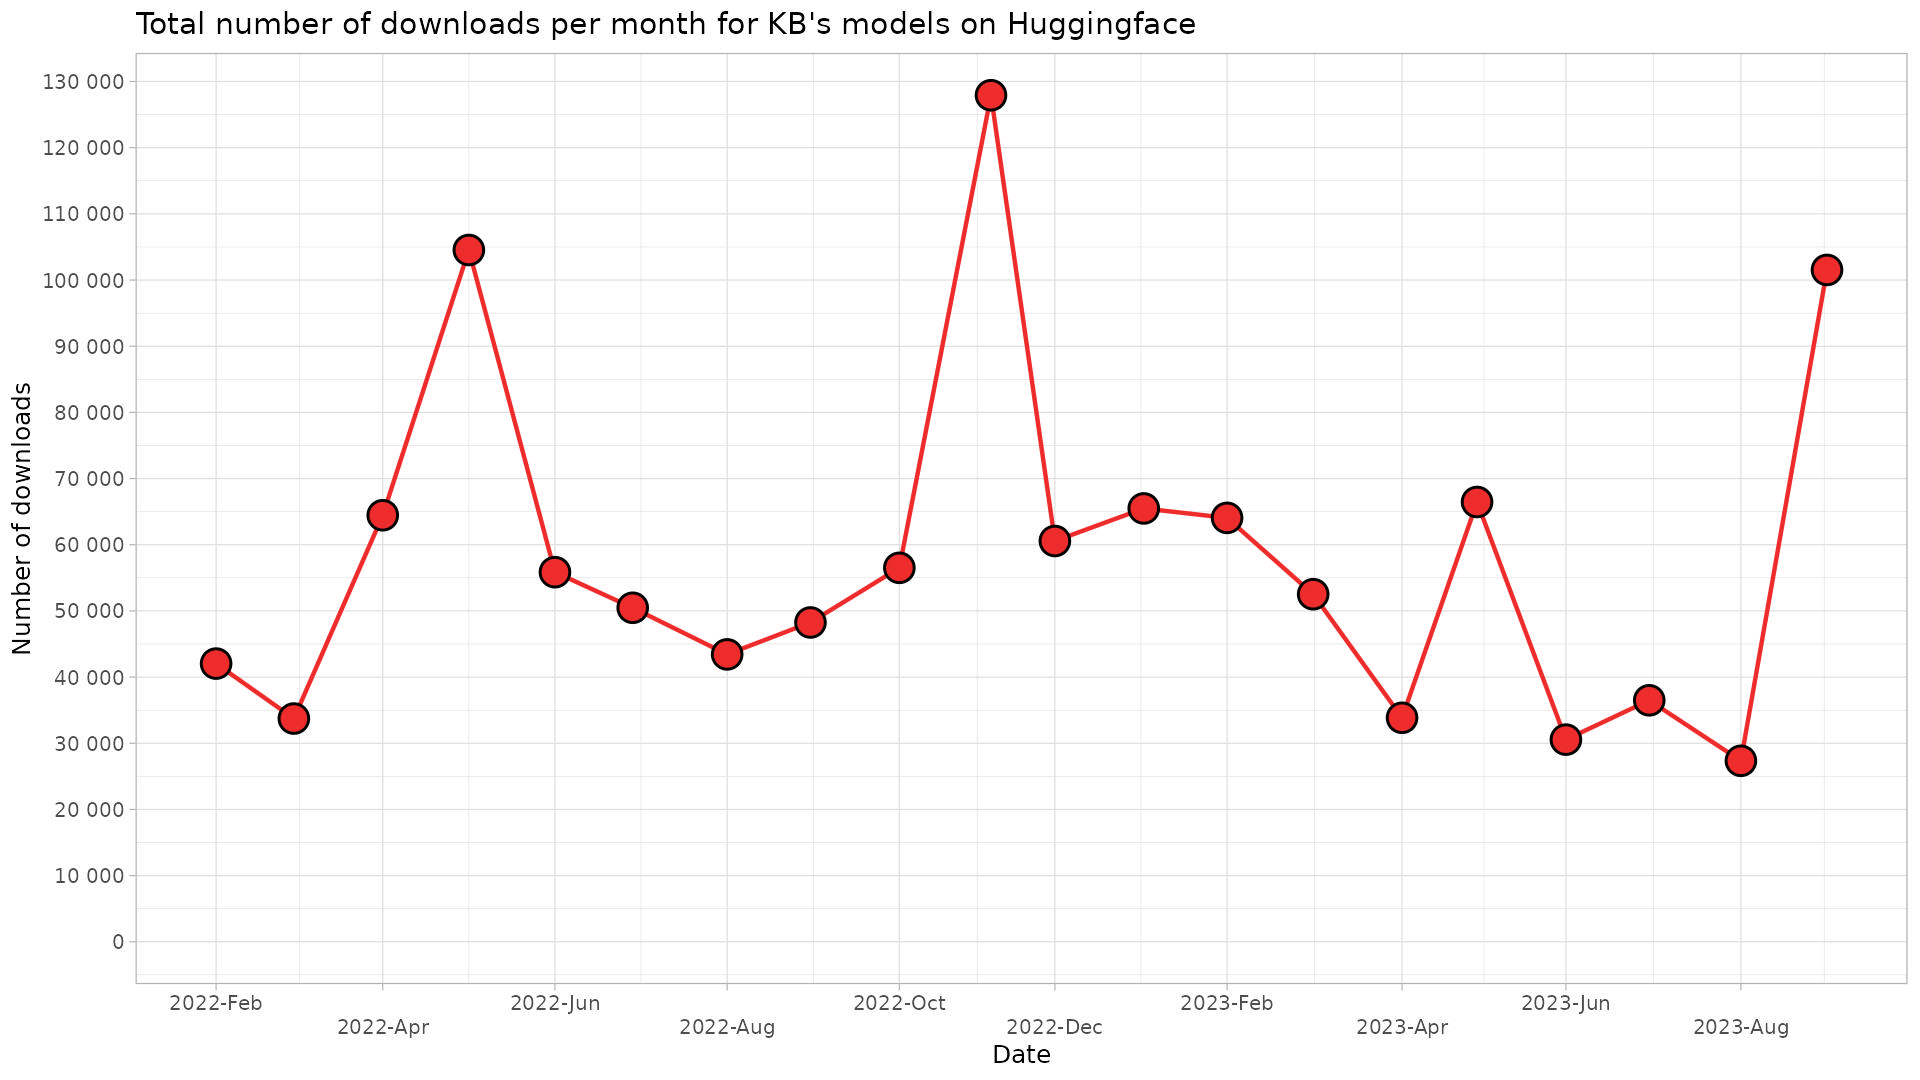
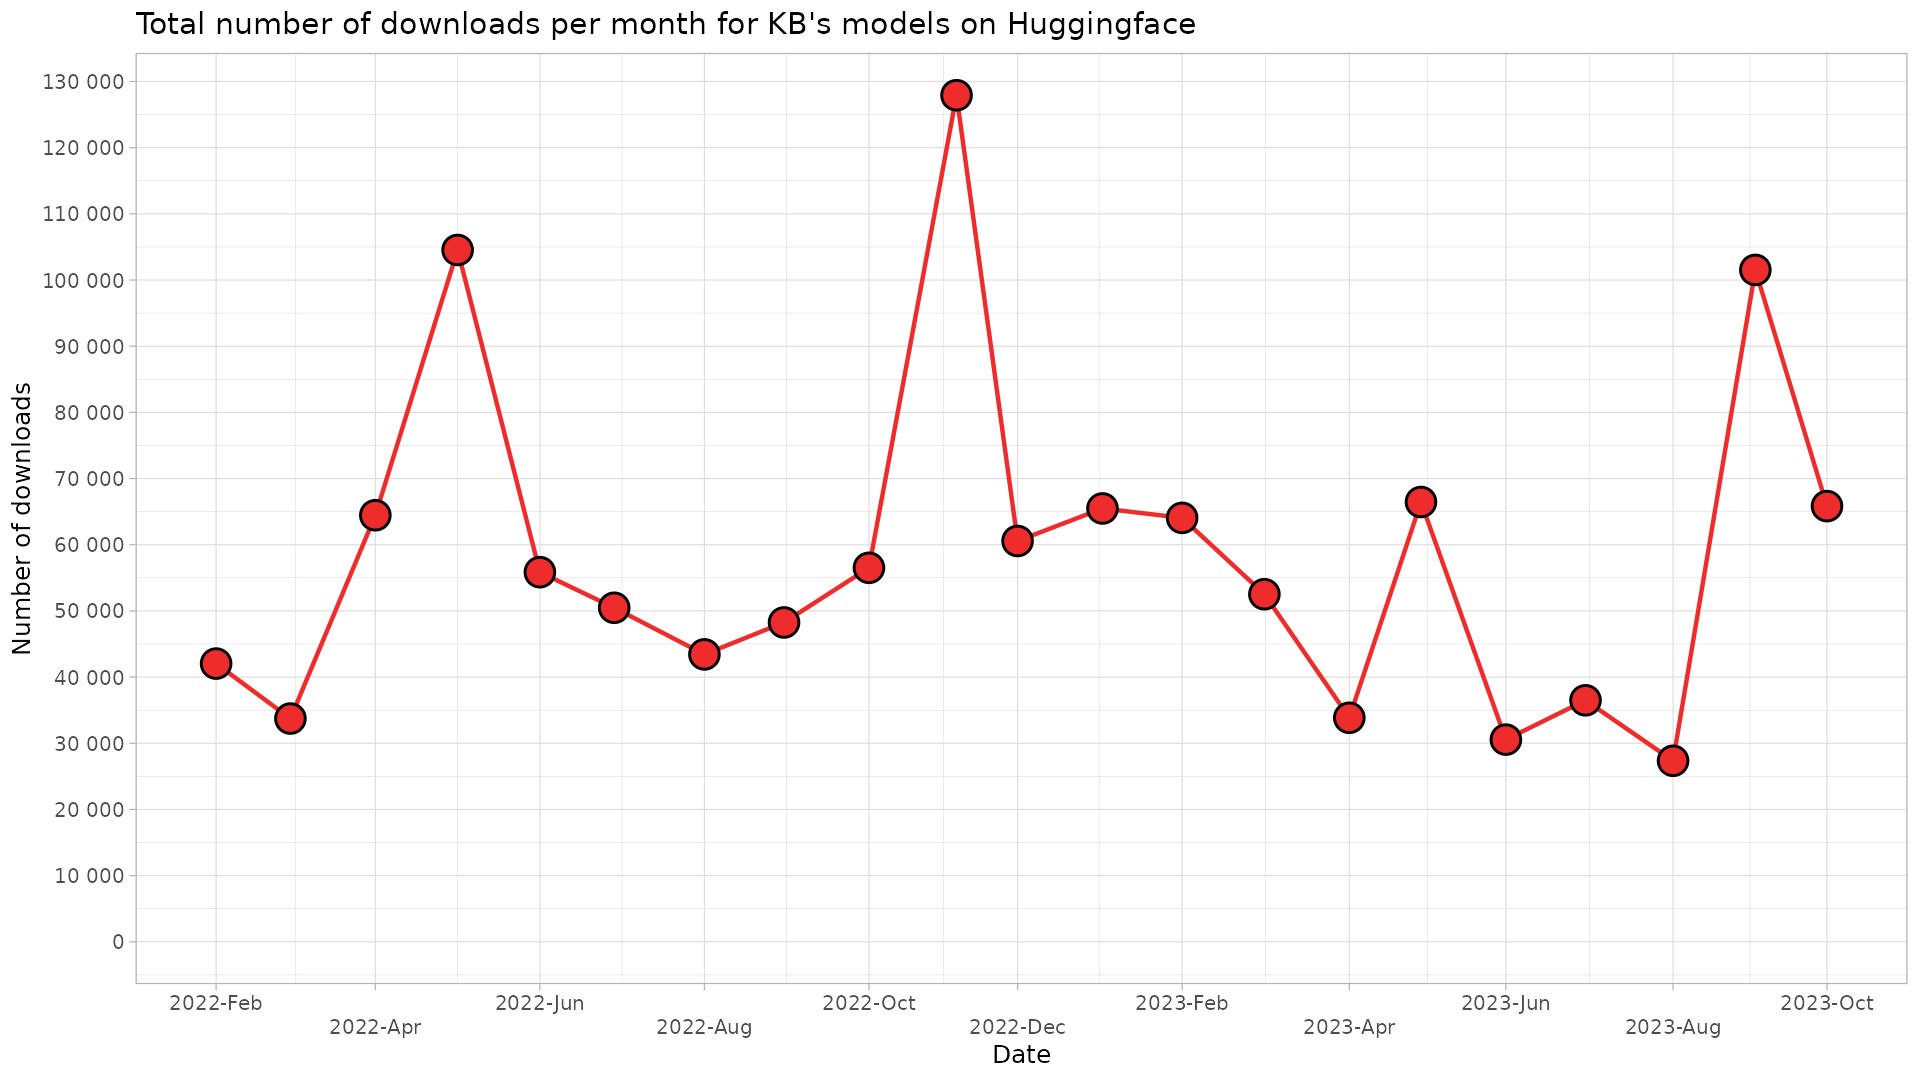
October 2023 update

diff --git a/README.md b/README.md
@@ -12,40 +12,40 @@ Script is run monthly, and a monthly `csv`-file outputted to `/data` folder.
 
 ## Table of downloads
 
-|model_name                                      | 2022-02| 2022-03| 2022-04| 2022-05| 2022-06| 2022-07| 2022-08| 2022-09| 2022-10| 2022-11| 2022-12| 2023-01| 2023-02| 2023-03| 2023-04| 2023-05| 2023-06| 2023-07| 2023-08| 2023-09|
-|:-----------------------------------------------|-------:|-------:|-------:|-------:|-------:|-------:|-------:|-------:|-------:|-------:|-------:|-------:|-------:|-------:|-------:|-------:|-------:|-------:|-------:|-------:|
-|albert-base-swedish-cased-alpha                 |     126|     252|      61|      52|      52|      28|      31|      17|      30|      64|     229|      37|      32|      75|      13|      17|      24|      39|      14|      18|
-|asr-voxrex-bart-base                            |      11|      10|      19|       5|       2|       1|       1|       3|       2|       3|       2|       4|       9|      15|       7|       2|       4|       7|       4|       3|
-|bart-base-swedish-cased                         |      74|      12|     116|     126|      32|      18|      41|      56|      81|       6|       9|      18|      41|      70|     110|      60|      50|      40|      23|       9|
-|bert-base-swedish-cased                         |   16509|   25080|   49286|   82528|   38802|   29511|   17012|   25106|   36702|   92636|   44016|   28164|   47819|   28864|   17684|   28878|   16390|   24502|   16303|   54271|
-|bert-base-swedish-cased-alpha                   |      22|      24|    1362|      34|       8|      73|       7|      14|      14|      14|      10|     160|     151|       6|       9|       5|       6|       9|       2|      12|
-|bert-base-swedish-cased-ner                     |   19891|    3353|    4783|    4221|   12487|   17406|   24290|   20200|   14852|   11251|   10014|    9759|    9957|   14508|    9834|   12293|    9868|    9701|    8258|    8767|
-|bert-base-swedish-cased-neriob                  |       8|      87|      34|      25|       4|      44|       2|       1|      62|      10|       5|      31|       5|       8|       6|       6|       9|      18|       2|       1|
-|bert-base-swedish-cased-new                     |      NA|       0|     377|    1069|     786|      10|     238|      69|     225|     168|     163|      46|      44|     352|     303|      33|      52|      69|      73|     211|
-|bert-base-swedish-cased-pos                     |     428|     179|     107|     104|     168|     310|       2|       2|     467|    7959|    2083|   21410|    1713|     300|      15|      28|      58|      64|       9|      75|
-|bert-base-swedish-cased-reallysimple-ner        |       6|      32|       9|       7|      11|      10|       3|       8|      10|      17|       4|      16|     159|     401|     211|     334|     327|     326|      74|     152|
-|bert-base-swedish-cased-squad-experimental      |     323|     136|      45|      23|      40|     182|      25|      27|     101|      10|      22|      62|      56|     643|     130|   16262|      29|      29|       4|      16|
-|bert-base-swedish-lowermix-reallysimple-ner     |       6|     453|     248|     312|     901|     991|     930|     871|    2274|    3958|    1963|    3010|    2567|    2485|    3919|    6258|    2875|     121|      53|     417|
-|electra-base-swedish-cased-discriminator        |     317|     143|     149|    1404|       2|       3|       3|       3|       2|       5|       0|       7|       2|       0|       6|       7|       4|       8|       0|       1|
-|electra-base-swedish-cased-generator            |       9|      15|      26|      31|       2|      19|       1|      18|       1|       9|       4|      10|       4|      14|      88|      78|     107|      72|       3|      15|
-|electra-small-swedish-cased-discriminator       |      12|       5|    1467|    3804|      10|       5|       2|       2|       2|      10|       8|      12|     153|       1|       9|       2|       6|       4|      18|       6|
-|electra-small-swedish-cased-generator           |      NA|       3|     138|      14|       4|      19|       2|       3|       4|       8|       6|      11|       4|       3|       6|      14|       4|       9|       0|       1|
-|emotional-classification                        |      NA|      NA|      NA|      NA|      NA|      NA|      NA|      NA|      NA|      NA|      NA|      NA|      NA|      NA|      NA|      NA|      NA|     155|       3|       1|
-|megatron-bert-base-swedish-cased-125k           |      NA|       0|     353|       0|       2|       8|       1|       3|     131|      55|     158|      27|      21|      19|       7|       6|      10|      10|       4|       2|
-|megatron-bert-base-swedish-cased-600k           |      NA|      10|     288|      87|      30|      16|      16|      17|     111|      12|      20|     194|      27|      49|      13|      15|     100|      22|       2|       2|
-|megatron-bert-large-swedish-cased-110k          |      NA|       0|     346|      77|       4|       4|       0|       1|       1|     171|     160|      15|       8|      23|       4|       2|       4|       3|       0|   33671|
-|megatron-bert-large-swedish-cased-165-zero-shot |      NA|      NA|      NA|      NA|      NA|      NA|      NA|      NA|      NA|      NA|       5|      55|      26|      63|      20|     621|      69|     135|      58|     170|
-|megatron-bert-large-swedish-cased-165k          |      NA|      NA|       9|      13|      40|      19|      53|       2|      18|     336|     327|      21|      34|      67|      43|      56|      36|      52|      13|      86|
-|piper-tts-nst-swedish                           |      NA|      NA|      NA|      NA|      NA|      NA|      NA|      NA|      NA|      NA|      NA|      NA|      NA|      NA|      NA|       1|       8|       3|       0|       0|
-|roberta-base-swedish-cased                      |       7|       7|     471|       8|      78|       5|      67|       2|       0|       5|       5|      37|     150|       3|       6|     204|      10|       9|       1|       2|
-|robust-swedish-sentiment-multiclass             |      NA|      NA|      NA|      NA|      NA|      NA|      NA|      NA|      NA|      NA|      NA|      NA|      NA|      NA|      NA|      NA|      12|     296|       8|      58|
-|sentence-bert-swedish-cased                     |    2033|    1988|    2079|    8110|     721|    1299|     304|    1157|     597|    1008|     887|    1441|     546|    3499|     955|     970|     327|     328|    2135|    2841|
-|swedish-spacy-pipeline                          |      65|      22|       5|       2|       5|       9|       1|       2|       0|       1|       3|       4|       6|      90|       3|       1|       0|       1|       3|       9|
-|wav2vec2-base-voxpopuli-sv-swedish              |      NA|      21|      19|       7|       1|      NA|       1|       5|      99|       6|       2|      13|      57|      12|      56|       4|      26|       9|       0|       1|
-|wav2vec2-large-voxpopuli-sv-swedish             |      58|      32|      73|      57|      24|       5|       5|      11|      59|      15|       7|      23|       9|      10|      13|      10|       7|      14|       4|       1|
-|wav2vec2-large-voxrex                           |     780|     609|     996|      57|     102|      55|      13|      34|      74|       4|       0|      56|      17|      11|       8|      17|       4|      15|       2|       1|
-|wav2vec2-large-voxrex-swedish                   |    1356|    1151|    1534|    2331|    1277|     334|     361|     611|     531|   10157|     146|     770|     411|     732|     290|     225|      65|     330|     217|     624|
-|wav2vec2-large-xlsr-53-swedish                  |      NA|     112|      55|      32|     259|      91|      19|       9|      61|      26|     307|      71|      32|      76|      26|      31|      45|      65|      50|      77|
-|whisper-large-rixvox                            |      NA|      NA|      NA|      NA|      NA|      NA|      NA|      NA|      NA|      NA|      NA|      NA|      NA|     113|      56|       8|       9|      12|       9|       6|
-|whisper-small-rixvox                            |      NA|      NA|      NA|      NA|      NA|      NA|      NA|      NA|      NA|      NA|      NA|      NA|      NA|       3|       1|       6|       2|       7|       0|       0|
-|whisper-tiny-rixvox                             |      NA|      NA|      NA|      NA|      NA|      NA|      NA|      NA|      NA|      NA|      NA|      NA|      NA|       9|       1|       5|       4|       7|       3|       0|
+|model_name                                      | 2022-02| 2022-03| 2022-04| 2022-05| 2022-06| 2022-07| 2022-08| 2022-09| 2022-10| 2022-11| 2022-12| 2023-01| 2023-02| 2023-03| 2023-04| 2023-05| 2023-06| 2023-07| 2023-08| 2023-09| 2023-10|
+|:-----------------------------------------------|-------:|-------:|-------:|-------:|-------:|-------:|-------:|-------:|-------:|-------:|-------:|-------:|-------:|-------:|-------:|-------:|-------:|-------:|-------:|-------:|-------:|
+|albert-base-swedish-cased-alpha                 |     126|     252|      61|      52|      52|      28|      31|      17|      30|      64|     229|      37|      32|      75|      13|      17|      24|      39|      14|      18|       4|
+|asr-voxrex-bart-base                            |      11|      10|      19|       5|       2|       1|       1|       3|       2|       3|       2|       4|       9|      15|       7|       2|       4|       7|       4|       3|       8|
+|bart-base-swedish-cased                         |      74|      12|     116|     126|      32|      18|      41|      56|      81|       6|       9|      18|      41|      70|     110|      60|      50|      40|      23|       9|      63|
+|bert-base-swedish-cased                         |   16509|   25080|   49286|   82528|   38802|   29511|   17012|   25106|   36702|   92636|   44016|   28164|   47819|   28864|   17684|   28878|   16390|   24502|   16303|   54271|   29238|
+|bert-base-swedish-cased-alpha                   |      22|      24|    1362|      34|       8|      73|       7|      14|      14|      14|      10|     160|     151|       6|       9|       5|       6|       9|       2|      12|       3|
+|bert-base-swedish-cased-ner                     |   19891|    3353|    4783|    4221|   12487|   17406|   24290|   20200|   14852|   11251|   10014|    9759|    9957|   14508|    9834|   12293|    9868|    9701|    8258|    8767|   14214|
+|bert-base-swedish-cased-neriob                  |       8|      87|      34|      25|       4|      44|       2|       1|      62|      10|       5|      31|       5|       8|       6|       6|       9|      18|       2|       1|       0|
+|bert-base-swedish-cased-new                     |      NA|       0|     377|    1069|     786|      10|     238|      69|     225|     168|     163|      46|      44|     352|     303|      33|      52|      69|      73|     211|      96|
+|bert-base-swedish-cased-pos                     |     428|     179|     107|     104|     168|     310|       2|       2|     467|    7959|    2083|   21410|    1713|     300|      15|      28|      58|      64|       9|      75|      28|
+|bert-base-swedish-cased-reallysimple-ner        |       6|      32|       9|       7|      11|      10|       3|       8|      10|      17|       4|      16|     159|     401|     211|     334|     327|     326|      74|     152|     341|
+|bert-base-swedish-cased-squad-experimental      |     323|     136|      45|      23|      40|     182|      25|      27|     101|      10|      22|      62|      56|     643|     130|   16262|      29|      29|       4|      16|      10|
+|bert-base-swedish-lowermix-reallysimple-ner     |       6|     453|     248|     312|     901|     991|     930|     871|    2274|    3958|    1963|    3010|    2567|    2485|    3919|    6258|    2875|     121|      53|     417|    4874|
+|electra-base-swedish-cased-discriminator        |     317|     143|     149|    1404|       2|       3|       3|       3|       2|       5|       0|       7|       2|       0|       6|       7|       4|       8|       0|       1|       0|
+|electra-base-swedish-cased-generator            |       9|      15|      26|      31|       2|      19|       1|      18|       1|       9|       4|      10|       4|      14|      88|      78|     107|      72|       3|      15|      39|
+|electra-small-swedish-cased-discriminator       |      12|       5|    1467|    3804|      10|       5|       2|       2|       2|      10|       8|      12|     153|       1|       9|       2|       6|       4|      18|       6|       0|
+|electra-small-swedish-cased-generator           |      NA|       3|     138|      14|       4|      19|       2|       3|       4|       8|       6|      11|       4|       3|       6|      14|       4|       9|       0|       1|       0|
+|emotional-classification                        |      NA|      NA|      NA|      NA|      NA|      NA|      NA|      NA|      NA|      NA|      NA|      NA|      NA|      NA|      NA|      NA|      NA|     155|       3|       1|       2|
+|megatron-bert-base-swedish-cased-125k           |      NA|       0|     353|       0|       2|       8|       1|       3|     131|      55|     158|      27|      21|      19|       7|       6|      10|      10|       4|       2|       0|
+|megatron-bert-base-swedish-cased-600k           |      NA|      10|     288|      87|      30|      16|      16|      17|     111|      12|      20|     194|      27|      49|      13|      15|     100|      22|       2|       2|      15|
+|megatron-bert-large-swedish-cased-110k          |      NA|       0|     346|      77|       4|       4|       0|       1|       1|     171|     160|      15|       8|      23|       4|       2|       4|       3|       0|   33671|   14716|
+|megatron-bert-large-swedish-cased-165-zero-shot |      NA|      NA|      NA|      NA|      NA|      NA|      NA|      NA|      NA|      NA|       5|      55|      26|      63|      20|     621|      69|     135|      58|     170|      48|
+|megatron-bert-large-swedish-cased-165k          |      NA|      NA|       9|      13|      40|      19|      53|       2|      18|     336|     327|      21|      34|      67|      43|      56|      36|      52|      13|      86|      37|
+|piper-tts-nst-swedish                           |      NA|      NA|      NA|      NA|      NA|      NA|      NA|      NA|      NA|      NA|      NA|      NA|      NA|      NA|      NA|       1|       8|       3|       0|       0|       0|
+|roberta-base-swedish-cased                      |       7|       7|     471|       8|      78|       5|      67|       2|       0|       5|       5|      37|     150|       3|       6|     204|      10|       9|       1|       2|       2|
+|robust-swedish-sentiment-multiclass             |      NA|      NA|      NA|      NA|      NA|      NA|      NA|      NA|      NA|      NA|      NA|      NA|      NA|      NA|      NA|      NA|      12|     296|       8|      58|     119|
+|sentence-bert-swedish-cased                     |    2033|    1988|    2079|    8110|     721|    1299|     304|    1157|     597|    1008|     887|    1441|     546|    3499|     955|     970|     327|     328|    2135|    2841|    1071|
+|swedish-spacy-pipeline                          |      65|      22|       5|       2|       5|       9|       1|       2|       0|       1|       3|       4|       6|      90|       3|       1|       0|       1|       3|       9|       5|
+|wav2vec2-base-voxpopuli-sv-swedish              |      NA|      21|      19|       7|       1|      NA|       1|       5|      99|       6|       2|      13|      57|      12|      56|       4|      26|       9|       0|       1|       7|
+|wav2vec2-large-voxpopuli-sv-swedish             |      58|      32|      73|      57|      24|       5|       5|      11|      59|      15|       7|      23|       9|      10|      13|      10|       7|      14|       4|       1|       5|
+|wav2vec2-large-voxrex                           |     780|     609|     996|      57|     102|      55|      13|      34|      74|       4|       0|      56|      17|      11|       8|      17|       4|      15|       2|       1|      13|
+|wav2vec2-large-voxrex-swedish                   |    1356|    1151|    1534|    2331|    1277|     334|     361|     611|     531|   10157|     146|     770|     411|     732|     290|     225|      65|     330|     217|     624|     752|
+|wav2vec2-large-xlsr-53-swedish                  |      NA|     112|      55|      32|     259|      91|      19|       9|      61|      26|     307|      71|      32|      76|      26|      31|      45|      65|      50|      77|     126|
+|whisper-large-rixvox                            |      NA|      NA|      NA|      NA|      NA|      NA|      NA|      NA|      NA|      NA|      NA|      NA|      NA|     113|      56|       8|       9|      12|       9|       6|       0|
+|whisper-small-rixvox                            |      NA|      NA|      NA|      NA|      NA|      NA|      NA|      NA|      NA|      NA|      NA|      NA|      NA|       3|       1|       6|       2|       7|       0|       0|       0|
+|whisper-tiny-rixvox                             |      NA|      NA|      NA|      NA|      NA|      NA|      NA|      NA|      NA|      NA|      NA|      NA|      NA|       9|       1|       5|       4|       7|       3|       0|       0|
